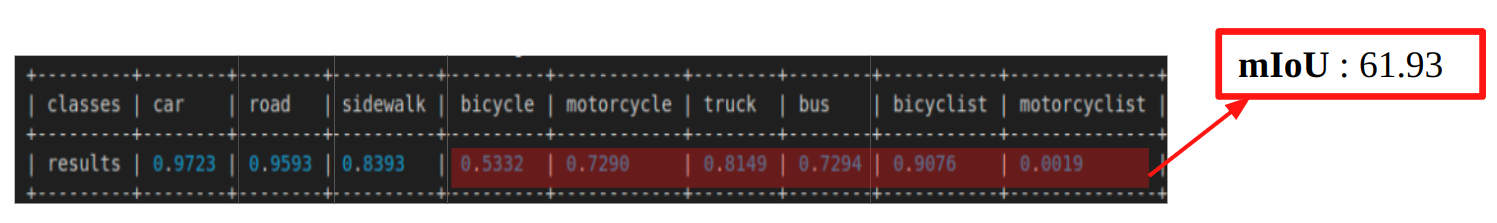
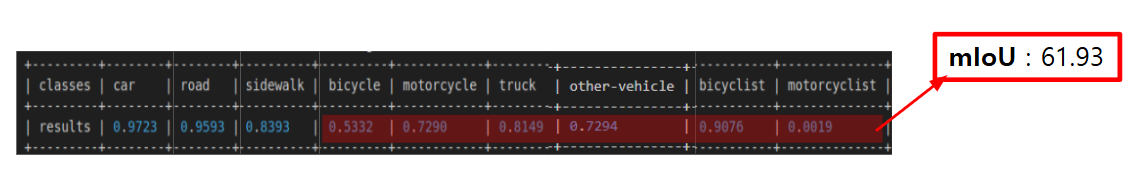
결과 수정

Changed region(s): [[0.0, 0.1124, 1.0, 0.927]]

diff --git a/README.md b/README.md
@@ -32,7 +32,7 @@ pip install -v -e .
 
 결론적으로, ```lasermix.py```의 line112, 113의 ```'logits'```를 ```'seg_logit'```으로 변환하면 된다.
 ## mmdetection/mmdet/datasets/semantickitti-dataset.py METAINFO 수정
-labels_map에 보면 bus는 other-vehicle로 맵핑 되어있지만 METAINFO에는 bus가 존재 [semantickitti-api의 yaml](https://github.com/PRBonn/semantic-kitti-api/blob/master/config/semantic-kitti.yaml) 참고하여 번호 순서에 맞게 MEATAINFO 수정
+labels_map에 보면 bus는 other-vehicle로 맵핑 되어있지만 METAINFO에는 bus가 존재 ```semantickitti-api```의 [yaml](https://github.com/PRBonn/semantic-kitti-api/blob/master/config/semantic-kitti.yaml) 참고하여 번호 순서에 맞게 MEATAINFO 수정
 
 
 
